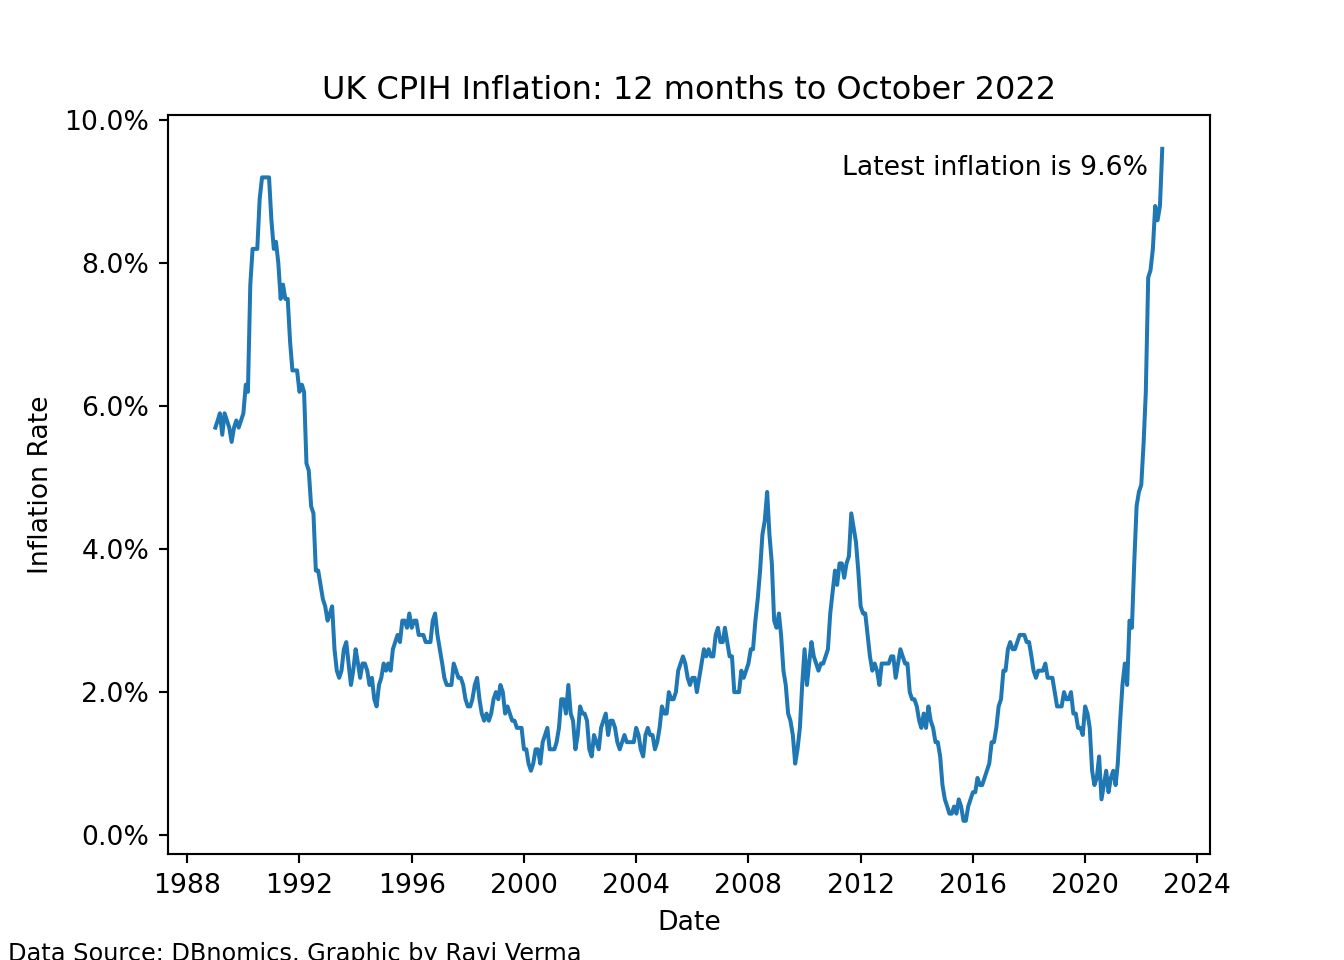
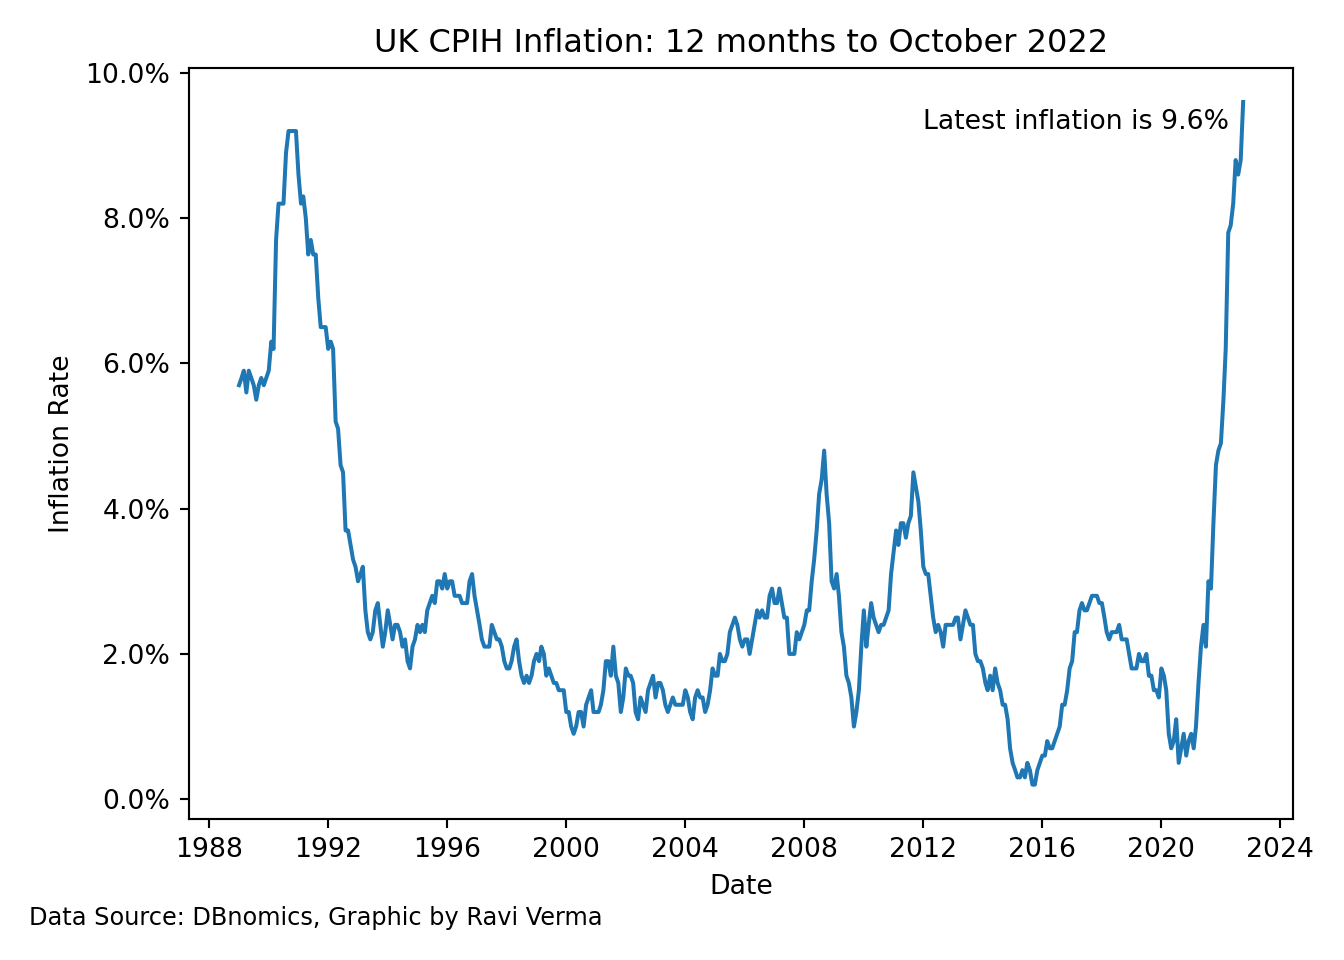
commit amended date and categories

diff --git a/_site/posts/UK_inflation_data/index.html b/_site/posts/UK_inflation_data/index.html
@@ -7,7 +7,7 @@
 <meta name="viewport" content="width=device-width, initial-scale=1.0, user-scalable=yes">
 
 <meta name="author" content="Ravi Verma">
-<meta name="dcterms.date" content="2023-01-12">
+<meta name="dcterms.date" content="2022-12-13">
 
 <title>Ravi Verma - UK CPIH Inflation Data</title>
 <style>
@@ -163,6 +163,8 @@ code span.wa { color: #60a0b0; font-weight: bold; font-style: italic; } /* Warni
       <h1 class="title">UK CPIH Inflation Data</h1>
                                 <div class="quarto-categories">
                 <div class="quarto-category">python</div>
+                <div class="quarto-category">UK</div>
+                <div class="quarto-category">inflation</div>
               </div>
                   </div>
   </div>
@@ -180,7 +182,7 @@ code span.wa { color: #60a0b0; font-weight: bold; font-style: italic; } /* Warni
       <div>
       <div class="quarto-title-meta-heading">Published</div>
       <div class="quarto-title-meta-contents">
-        <p class="date">January 12, 2023</p>
+        <p class="date">December 13, 2022</p>
       </div>
     </div>
       
@@ -224,11 +226,9 @@ code span.wa { color: #60a0b0; font-weight: bold; font-style: italic; } /* Warni
 </div>
 <p>Checking with Python code that we can use the CPIH data we recently downloaded earlier.</p>
 <div class="cell">
-<div class="sourceCode cell-code" id="cb7"><pre class="sourceCode python code-with-copy"><code class="sourceCode python"><span id="cb7-1"><a href="#cb7-1" aria-hidden="true" tabindex="-1"></a></span>
-<span id="cb7-2"><a href="#cb7-2" aria-hidden="true" tabindex="-1"></a><span class="im">import</span> pandas</span>
-<span id="cb7-3"><a href="#cb7-3" aria-hidden="true" tabindex="-1"></a></span>
-<span id="cb7-4"><a href="#cb7-4" aria-hidden="true" tabindex="-1"></a>cpih_test <span class="op">=</span>r.df_CPIH_monthly</span>
-<span id="cb7-5"><a href="#cb7-5" aria-hidden="true" tabindex="-1"></a><span class="bu">print</span>(cpih_test.head(<span class="dv">5</span>))</span></code><button title="Copy to Clipboard" class="code-copy-button"><i class="bi"></i></button></pre></div>
+<div class="sourceCode cell-code" id="cb7"><pre class="sourceCode python code-with-copy"><code class="sourceCode python"><span id="cb7-1"><a href="#cb7-1" aria-hidden="true" tabindex="-1"></a><span class="im">import</span> pandas</span>
+<span id="cb7-2"><a href="#cb7-2" aria-hidden="true" tabindex="-1"></a>cpih_test <span class="op">=</span>r.df_CPIH_monthly</span>
+<span id="cb7-3"><a href="#cb7-3" aria-hidden="true" tabindex="-1"></a><span class="bu">print</span>(cpih_test.head(<span class="dv">5</span>))</span></code><button title="Copy to Clipboard" class="code-copy-button"><i class="bi"></i></button></pre></div>
 <div class="cell-output cell-output-stdout">
 <pre><code>  @frequency dataset_code  ...                                    Title value
 0    monthly         MM23  ...  CPIH ANNUAL RATE 00: ALL ITEMS 2015=100   NaN
@@ -270,7 +270,8 @@ code span.wa { color: #60a0b0; font-weight: bold; font-style: italic; } /* Warni
 <span id="cb9-26"><a href="#cb9-26" aria-hidden="true" tabindex="-1"></a>            xycoords<span class="op">=</span><span class="st">'data'</span>,</span>
 <span id="cb9-27"><a href="#cb9-27" aria-hidden="true" tabindex="-1"></a>            textcoords<span class="op">=</span><span class="st">'offset points'</span>,</span>
 <span id="cb9-28"><a href="#cb9-28" aria-hidden="true" tabindex="-1"></a>            wrap<span class="op">=</span><span class="va">True</span>)</span>
-<span id="cb9-29"><a href="#cb9-29" aria-hidden="true" tabindex="-1"></a>plt.show()</span></code><button title="Copy to Clipboard" class="code-copy-button"><i class="bi"></i></button></pre></div>
+<span id="cb9-29"><a href="#cb9-29" aria-hidden="true" tabindex="-1"></a>plt.tight_layout()</span>
+<span id="cb9-30"><a href="#cb9-30" aria-hidden="true" tabindex="-1"></a>plt.show()</span></code><button title="Copy to Clipboard" class="code-copy-button"><i class="bi"></i></button></pre></div>
 <div class="cell-output-display">
 <p><img src="index_files/figure-html/unnamed-chunk-6-1.png" class="img-fluid" width="672"></p>
 </div>

diff --git a/_site/index.html b/_site/index.html
@@ -144,7 +144,7 @@ ul.task-list{list-style: none;}
 <!-- margin-sidebar -->
     <div id="quarto-margin-sidebar" class="sidebar margin-sidebar">
         
-    <h5 class="quarto-listing-category-title">Categories</h5><div class="quarto-listing-category category-default"><div class="category" data-category="">All <span class="quarto-category-count">(5)</span></div><div class="category" data-category="finance">finance <span class="quarto-category-count">(1)</span></div><div class="category" data-category="links">links <span class="quarto-category-count">(1)</span></div><div class="category" data-category="markets">markets <span class="quarto-category-count">(1)</span></div><div class="category" data-category="news">news <span class="quarto-category-count">(1)</span></div><div class="category" data-category="python">python <span class="quarto-category-count">(2)</span></div></div></div>
+    <h5 class="quarto-listing-category-title">Categories</h5><div class="quarto-listing-category category-default"><div class="category" data-category="">All <span class="quarto-category-count">(5)</span></div><div class="category" data-category="UK">UK <span class="quarto-category-count">(1)</span></div><div class="category" data-category="finance">finance <span class="quarto-category-count">(1)</span></div><div class="category" data-category="inflation">inflation <span class="quarto-category-count">(1)</span></div><div class="category" data-category="links">links <span class="quarto-category-count">(1)</span></div><div class="category" data-category="markets">markets <span class="quarto-category-count">(1)</span></div><div class="category" data-category="news">news <span class="quarto-category-count">(1)</span></div><div class="category" data-category="python">python <span class="quarto-category-count">(2)</span></div></div></div>
 <!-- main -->
 <main class="content quarto-banner-title-block column-page-left" id="quarto-document-content">
 
@@ -157,7 +157,7 @@ ul.task-list{list-style: none;}
 
 <div class="quarto-listing quarto-listing-container-default" id="listing-listing">
 <div class="list quarto-listing-default">
-<div class="quarto-post image-right" data-index="0" data-categories="python" data-listing-date-sort="1673481600000" data-listing-file-modified-sort="1670943165580" data-listing-reading-time-sort="1.45">
+<div class="quarto-post image-right" data-index="0" data-categories="python,UK,inflation" data-listing-date-sort="1670889600000" data-listing-file-modified-sort="1670943680337" data-listing-reading-time-sort="1.45">
 <div class="thumbnail">
 <a href="./posts/UK_inflation_data/index.html">
 <div class="thumbnail-image">
@@ -178,6 +178,12 @@ UK CPIH Inflation Data
 <div class="listing-category" onclick="window.quartoListingCategory('python'); return false;">
 python
 </div>
+<div class="listing-category" onclick="window.quartoListingCategory('UK'); return false;">
+UK
+</div>
+<div class="listing-category" onclick="window.quartoListingCategory('inflation'); return false;">
+inflation
+</div>
 </div>
 <a href="./posts/UK_inflation_data/index.html">
 <div class="listing-description">
@@ -188,7 +194,7 @@ Let’s install the package DBnomics which contains a plethora of macroeconomic 
 <div class="metadata">
 <a href="./posts/UK_inflation_data/index.html">
 <div class="listing-date">
-Jan 12, 2023
+Dec 13, 2022
 </div>
 <div class="listing-author">
 Ravi Verma
